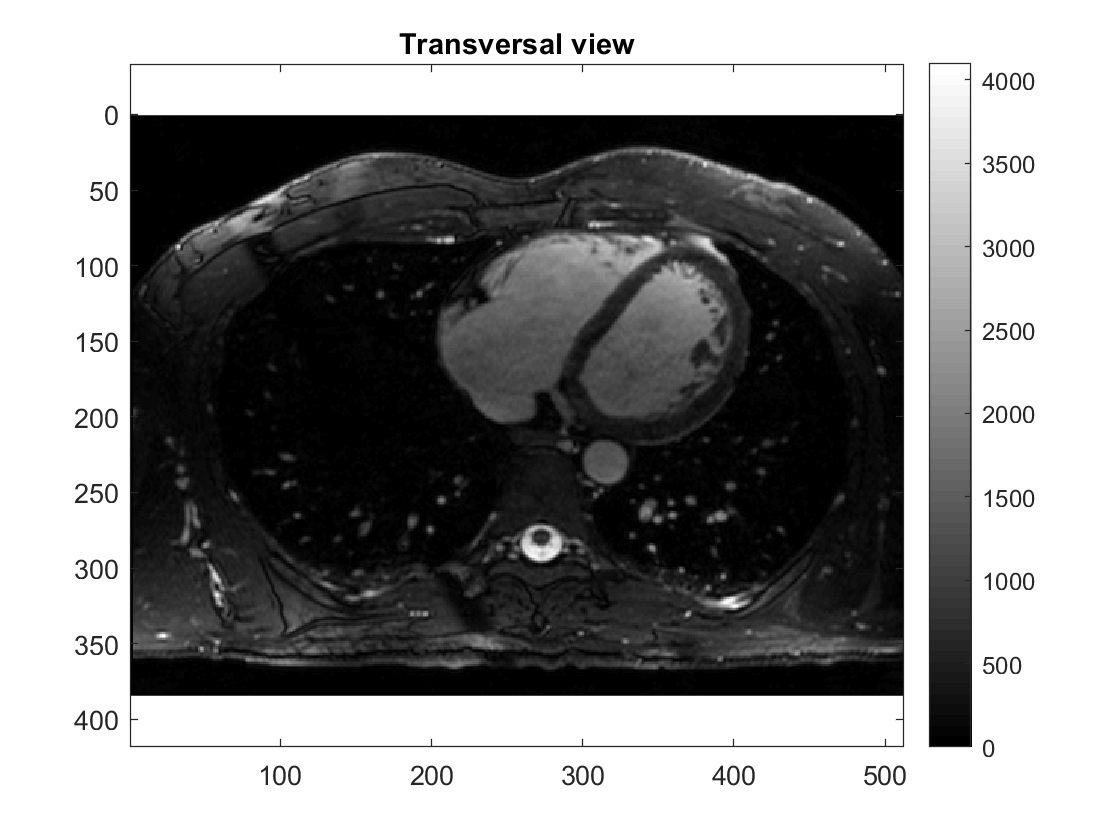
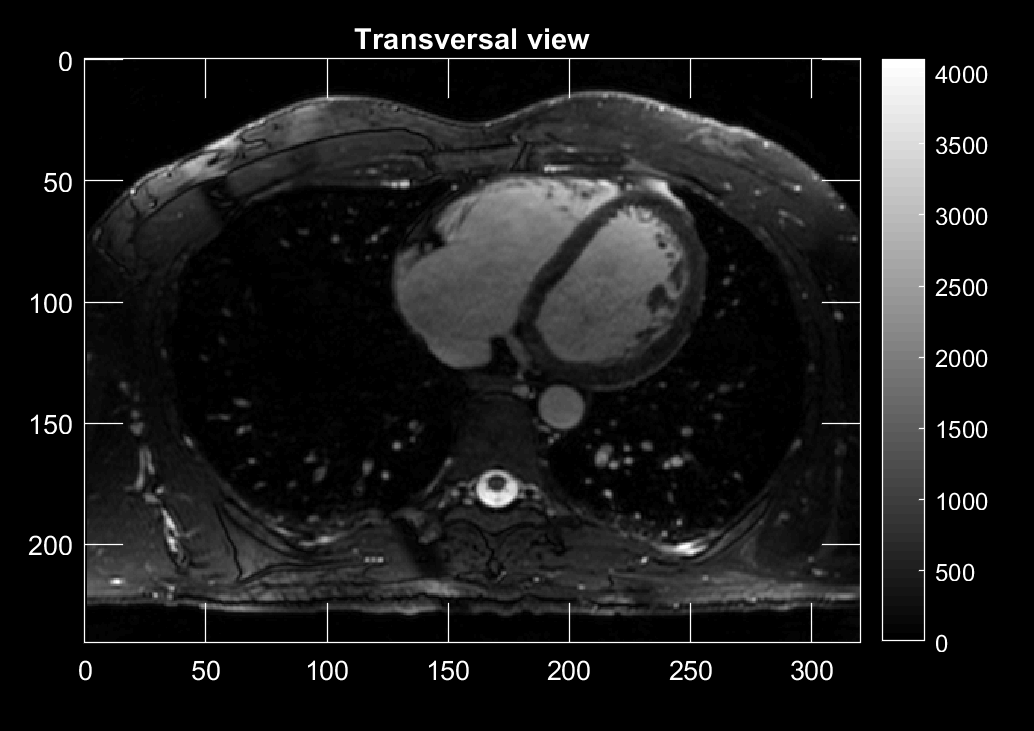
Finalized asg 4 pass

diff --git a/asg 4/brain.m b/asg 4/brain.m
@@ -1,0 +1,73 @@
+[im_3d, info_3d] = mydicomreadfolder;
+
+%%
+slice_thickness = str2double(info_3d.SliceThickness);
+pix_spacing = split(info_3d.PixelSpacing, '\');
+row_spacing = str2double(pix_spacing(1));
+col_spacing = str2double(pix_spacing(2));
+cols = info_3d.Columns;
+rows = info_3d.Rows;
+stack_height = size(im_3d, 3);
+
+image_dims_mm = [col_spacing*cols, row_spacing*rows, slice_thickness*stack_height];
+
+x_mm = [0,image_dims_mm(1)];
+y_mm = [0,image_dims_mm(2)];
+z_mm = [0,image_dims_mm(3)];
+
+%%
+im_3d_cor = im_3d;
+im_3d_sag = permute(im_3d, [1 3 2]);
+im_3d_trans = permute(im_3d, [2 3 1]);
+%%
+% im = im_3d_cor;
+% while 1
+%     for i = 1:size(im, 3)
+%         imagesc(imrotate(im(:,:,i), 90));
+%         title(['Image ' num2str(i) ' of ' num2str(size(im, 3))])
+%         colorbar
+%         colormap('gray')
+%         axis equal
+%         pause(0.1)
+%     end
+% end
+
+%%
+mid_trans = max(im_3d_trans, [], 3);
+mid_sag = max(im_3d_sag, [], 3);
+mid_cor = max(im_3d_cor, [], 3);
+
+figure
+imagesc(x_mm, y_mm, mid_cor);
+title('\color{white}Coronal view')
+c = colorbar
+c.Color = [1 1 1];
+colormap('gray')
+axis image
+set(gca,'xcolor',[1 1 1],'ycolor',[1 1 1]);
+set(gca,'color',[1 1 1]);
+set(gca,'ticklength',[0.05 0.05]);
+set(gcf,'color',[0 0 0]);
+figure
+imagesc(x_mm, z_mm, mid_trans');
+title('\color{white}Transversal view')
+c = colorbar
+c.Color = [1 1 1];
+colormap('gray')
+axis image
+set(gca,'xcolor',[1 1 1],'ycolor',[1 1 1]);
+set(gca,'ticklength',[0.05 0.05]);
+set(gcf,'color',[0 0 0]);
+figure
+imagesc(z_mm, y_mm, mid_sag);
+title('\color{white}Sagital view')
+c = colorbar
+c.Color = [1 1 1];
+colormap('gray')
+axis image
+set(gca,'xcolor',[1 1 1],'ycolor',[1 1 1]);
+set(gca,'ticklength',[0.05 0.05]);
+set(gcf,'color',[0 0 0]);
+
+pause
+close all

diff --git a/asg 4/main.m b/asg 4/main.m
@@ -1,18 +1,38 @@
 mr_heart_info = mydicominfo('images/MR-heart-single.dcm');
 %%
-ct_thorax_info = mydicominfo('images/CT-thorax-single.dcm');
+ct_thorax_info = mydicominfo('images   /CT-thorax-single.dcm');
 
 %%
 [mr_heart_info, mr_heart_im] = mydicomread('images/MR-heart-single.dcm');
 
 figure
 imagesc(mr_heart_im)
+title('CT of heart');
+colorbar
+axis image
+colormap gray
 
 %%
 [ct_thorax_info, ct_thorax_im] = mydicomread('images/CT-thorax-single.dcm');
 
 figure
 imagesc(ct_thorax_im)
+title('CT of thorax');
+colorbar
+axis image
+colormap gray
+
+
+%%
+[ct_thorax_info, ct_thorax_im] = mydicomread('images/CT-thorax-single.dcm');
+
+im = double(imgaussfilt(ct_thorax_im, 4));
+im = (im - min(im, [], 'all'))./(max(im, [], 'all')-min(im, [], 'all'));
+im = im > 0.6;
+el = strel('disk', 4);
+im = imopen(im, strel);
+figure
+imagesc(im)
 %%
 [test_inf, test_im] = mydicomread('C:\Users\olofe\Documents\MATLAB\MedBild\asg 4\images\MR-thorax-transversal\OUTIM0080.dcm');
 
@@ -52,14 +72,18 @@ im_3d_trans = im_3d;
 im_3d_sag = permute(im_3d, [1 3 2]);
 im_3d_cor = permute(im_3d, [2 3 1]);
 %%
-im = im_3d_cor;
+im = im_3d_trans;
 while 1
     for i = 1:size(im, 3)
         imagesc(imrotate(im(:,:,i), 90));
-        title(['Image ' num2str(i) ' of ' num2str(size(im, 3))])
+        title(['\color{white}Image ' num2str(i) ' of ' num2str(size(im, 3))])
         colorbar
         colormap('gray')
-        axis equal
+        axis image
+        set(gca,'xcolor',[1 1 1],'ycolor',[1 1 1]);
+        set(gca,'color',[1 1 1]);
+        set(gca,'ticklength',[0.05 0.05]);
+        set(gcf,'color',[0 0 0]);
         pause(0.1)
     end
 end
@@ -103,3 +127,5 @@ set(gcf,'color',[0 0 0]);
 
 pause
 close all
+
+%%

diff --git a/asg 4/code/interactive.m b/asg 4/code/interactive.m
@@ -264,10 +264,23 @@ global GUI
 %stop/slow down. Have fun!
 
 %Calculate the intensity at the seed in case it is useful.
-intensityatseed = GUI.IM(GUI.YSeed,GUI.XSeed);
+im = double(imgaussfilt(GUI.IM, 0.5+GUI.Slider1/20));
+
+%edges = edge(im);
+intensityatseed = im(GUI.YSeed,GUI.XSeed);
+im = abs(im - intensityatseed);
+im = max(im, [], 'all') - im;
+minim = min(im, [], 'all');
+maxim = max(im, [], 'all');
+im = (im - minim)./(maxim-minim);
+im = im > GUI.Slider2/100;
+el = strel('disk', 2+round(GUI.Slider3*20));
+im = imclose(im, el);
+
+%edges = imopen(edges, strel('disk', 5));
 
 %Just anything for now, replace here!
-GUI.SPEED = (GUI.IM-GUI.IM-intensityatseed)*GUI.Slider1;
+GUI.SPEED = double(im);
 GUI.SPEED(GUI.SPEED<1e-2) = 1e-2;
 
 tic;
